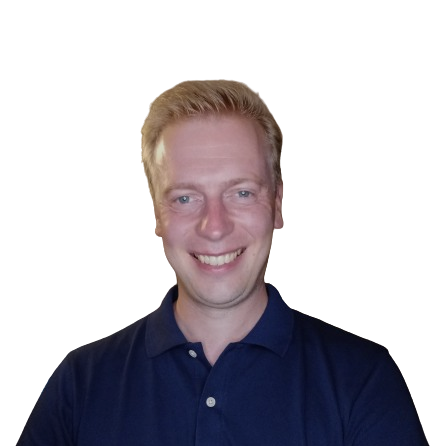
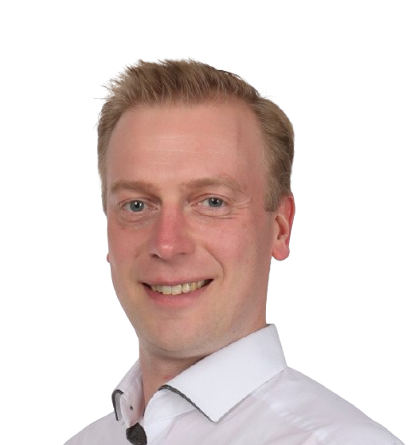
generalized and added evact

diff --git a/src/app/main-page/portfolio/portfolio.component.ts b/src/app/main-page/portfolio/portfolio.component.ts
@@ -24,6 +24,20 @@ interface Project {
 export class PortfolioComponent {
   projects: Project[] = [
     {
+      title: 'EvAct',
+      skills: 'Angular | Libraries | Plug-Ins | API | Material',
+      descriptionEN:`Activity finder in google-maps style. Find your favorite activity
+      at your location and track your route. Get information about opening hours, websites
+      and telephone numbers.`,
+      descriptionDE:`Eine App für Freizeit-Aktivitäten im Google-Maps Stil. Finde deine Lieblings-Aktivitäten
+      in deiner Nähe und erstelle Routen. Greife auf Informationen zu Öffnungszeiten, Webseiten und
+      Telefonnummern zu. `,
+      test: 'https://www.evact.joerg-habermann.de',
+      github: 'https://github.com/JoergHabermann/EvAct',
+      image: 'assets/img/evact-lap.png',
+      picleft: false,
+    },
+    {
       title: 'Join',
       skills: 'JavaScript | HTML | CSS | Firebase',
       descriptionEN:`Task manager inspired by the Kanban System. Create and organize tasks
@@ -33,7 +47,7 @@ export class PortfolioComponent {
       test: 'https://www.join.joerg-habermann.de',
       github: 'https://www.github.com/JoergHabermann/Join',
       image: 'assets/img/join.png',
-      picleft: false,
+      picleft: true,
     },
     {
       title: 'Sharkie',
@@ -45,7 +59,7 @@ export class PortfolioComponent {
       test: 'https://www.sharkie.joerg-habermann.de',
       github: 'https://www.github.com/JoergHabermann/sharkie',
       image: 'assets/img/sharkie.png',
-      picleft: true,
+      picleft: false,
     },
     {
       title: 'Pokédex',
@@ -57,7 +71,7 @@ export class PortfolioComponent {
       test: 'https://www.pokedex.joerg-habermann.de',
       github: 'https://www.github.com/JoergHabermann/Pokedex',
       image: 'assets/img/pokedex.png',
-      picleft: false,
+      picleft: true,
     }    
   ];
 }

diff --git a/src/app/main-page/contact/contact.component.ts b/src/app/main-page/contact/contact.component.ts
@@ -1,5 +1,5 @@
 import { NgClass, NgIf } from '@angular/common';
-import { HttpClient } from '@angular/common/http';
+import { HttpClient, HttpClientModule } from '@angular/common/http';
 import { Component, HostListener, Renderer2 } from '@angular/core';
 import { FormsModule, NgForm } from '@angular/forms';
 import { TranslateModule } from '@ngx-translate/core';
@@ -16,6 +16,7 @@ import { RouterModule } from '@angular/router';
     ScrollTriggerDirective,
     NgClass,
     RouterModule,
+    HttpClientModule
   ],
   templateUrl: './contact.component.html',
   styleUrl: './contact.component.scss',

diff --git a/src/app/main-page/above-the-fold/above-the-fold.component.html b/src/app/main-page/above-the-fold/above-the-fold.component.html
@@ -8,7 +8,7 @@
                 <span [ngClass]="{'me-en': language === 'en', 'me-de': language === 'de'}">{{ 'above-who' | translate }}</span>
                 <div>
                     <h1>Jörg Habermann</h1>
-                    <h2>Frontend Developer</h2>
+                    <h2>IT-Enthusiast</h2>
                 </div>
             </div>
             <div class="buttoncontainer">

diff --git a/src/app/main-page/above-the-fold/above-the-fold.component.ts b/src/app/main-page/above-the-fold/above-the-fold.component.ts
@@ -5,7 +5,7 @@ import { TranslateModule, TranslateService } from '@ngx-translate/core';
 @Component({
   selector: 'app-above-the-fold',
   standalone: true,
-  imports: [CommonModule,TranslateModule,NgStyle],
+  imports: [CommonModule,TranslateModule],
   templateUrl: './above-the-fold.component.html',
   styleUrl: './above-the-fold.component.scss'
 })
